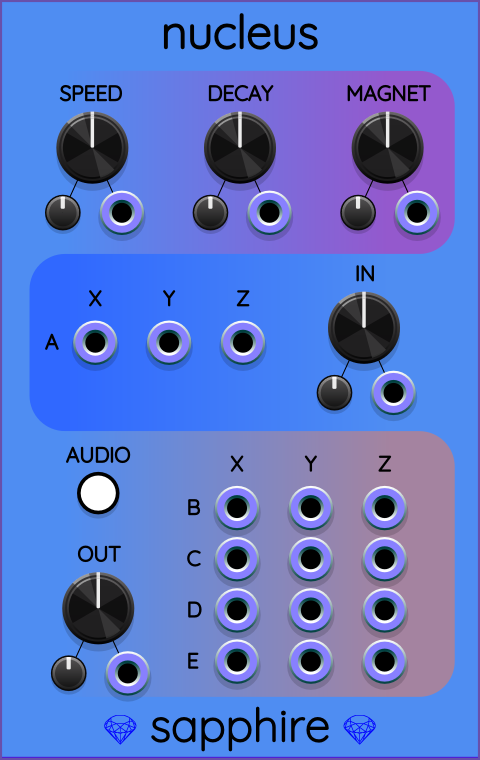
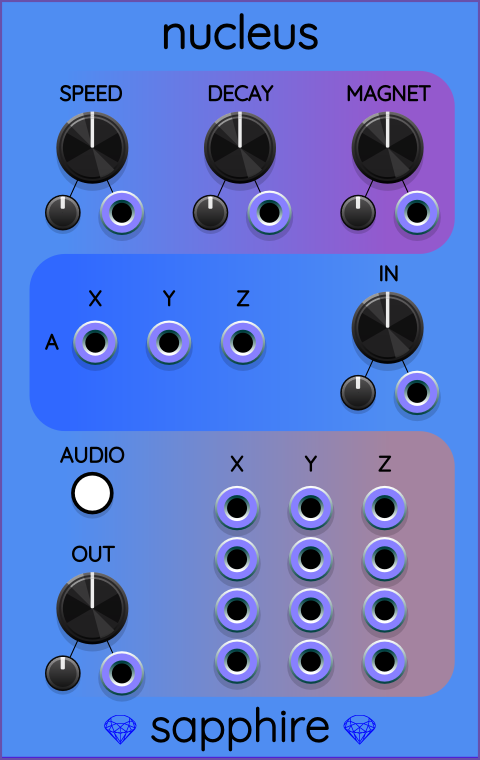
Nucleus panel: put output X ports directly beneath input Z port.

diff --git a/util/make_sapphire_svg.py b/util/make_sapphire_svg.py
@@ -321,7 +321,7 @@ def GenerateNucleusPanel() -> int:
             xOutPos += dxPort
 
         pl.append(ControlTextPath(font, 'A', xInputCenter - dxPort - 8.5, yIn - 2.5))
-        xpos = xOutPos - 46.0
+        xpos = xmid
         ypos = yOutTop - 2.5
         for label in 'BCDE':
             pl.append(ControlTextPath(font, label, xpos, ypos))
